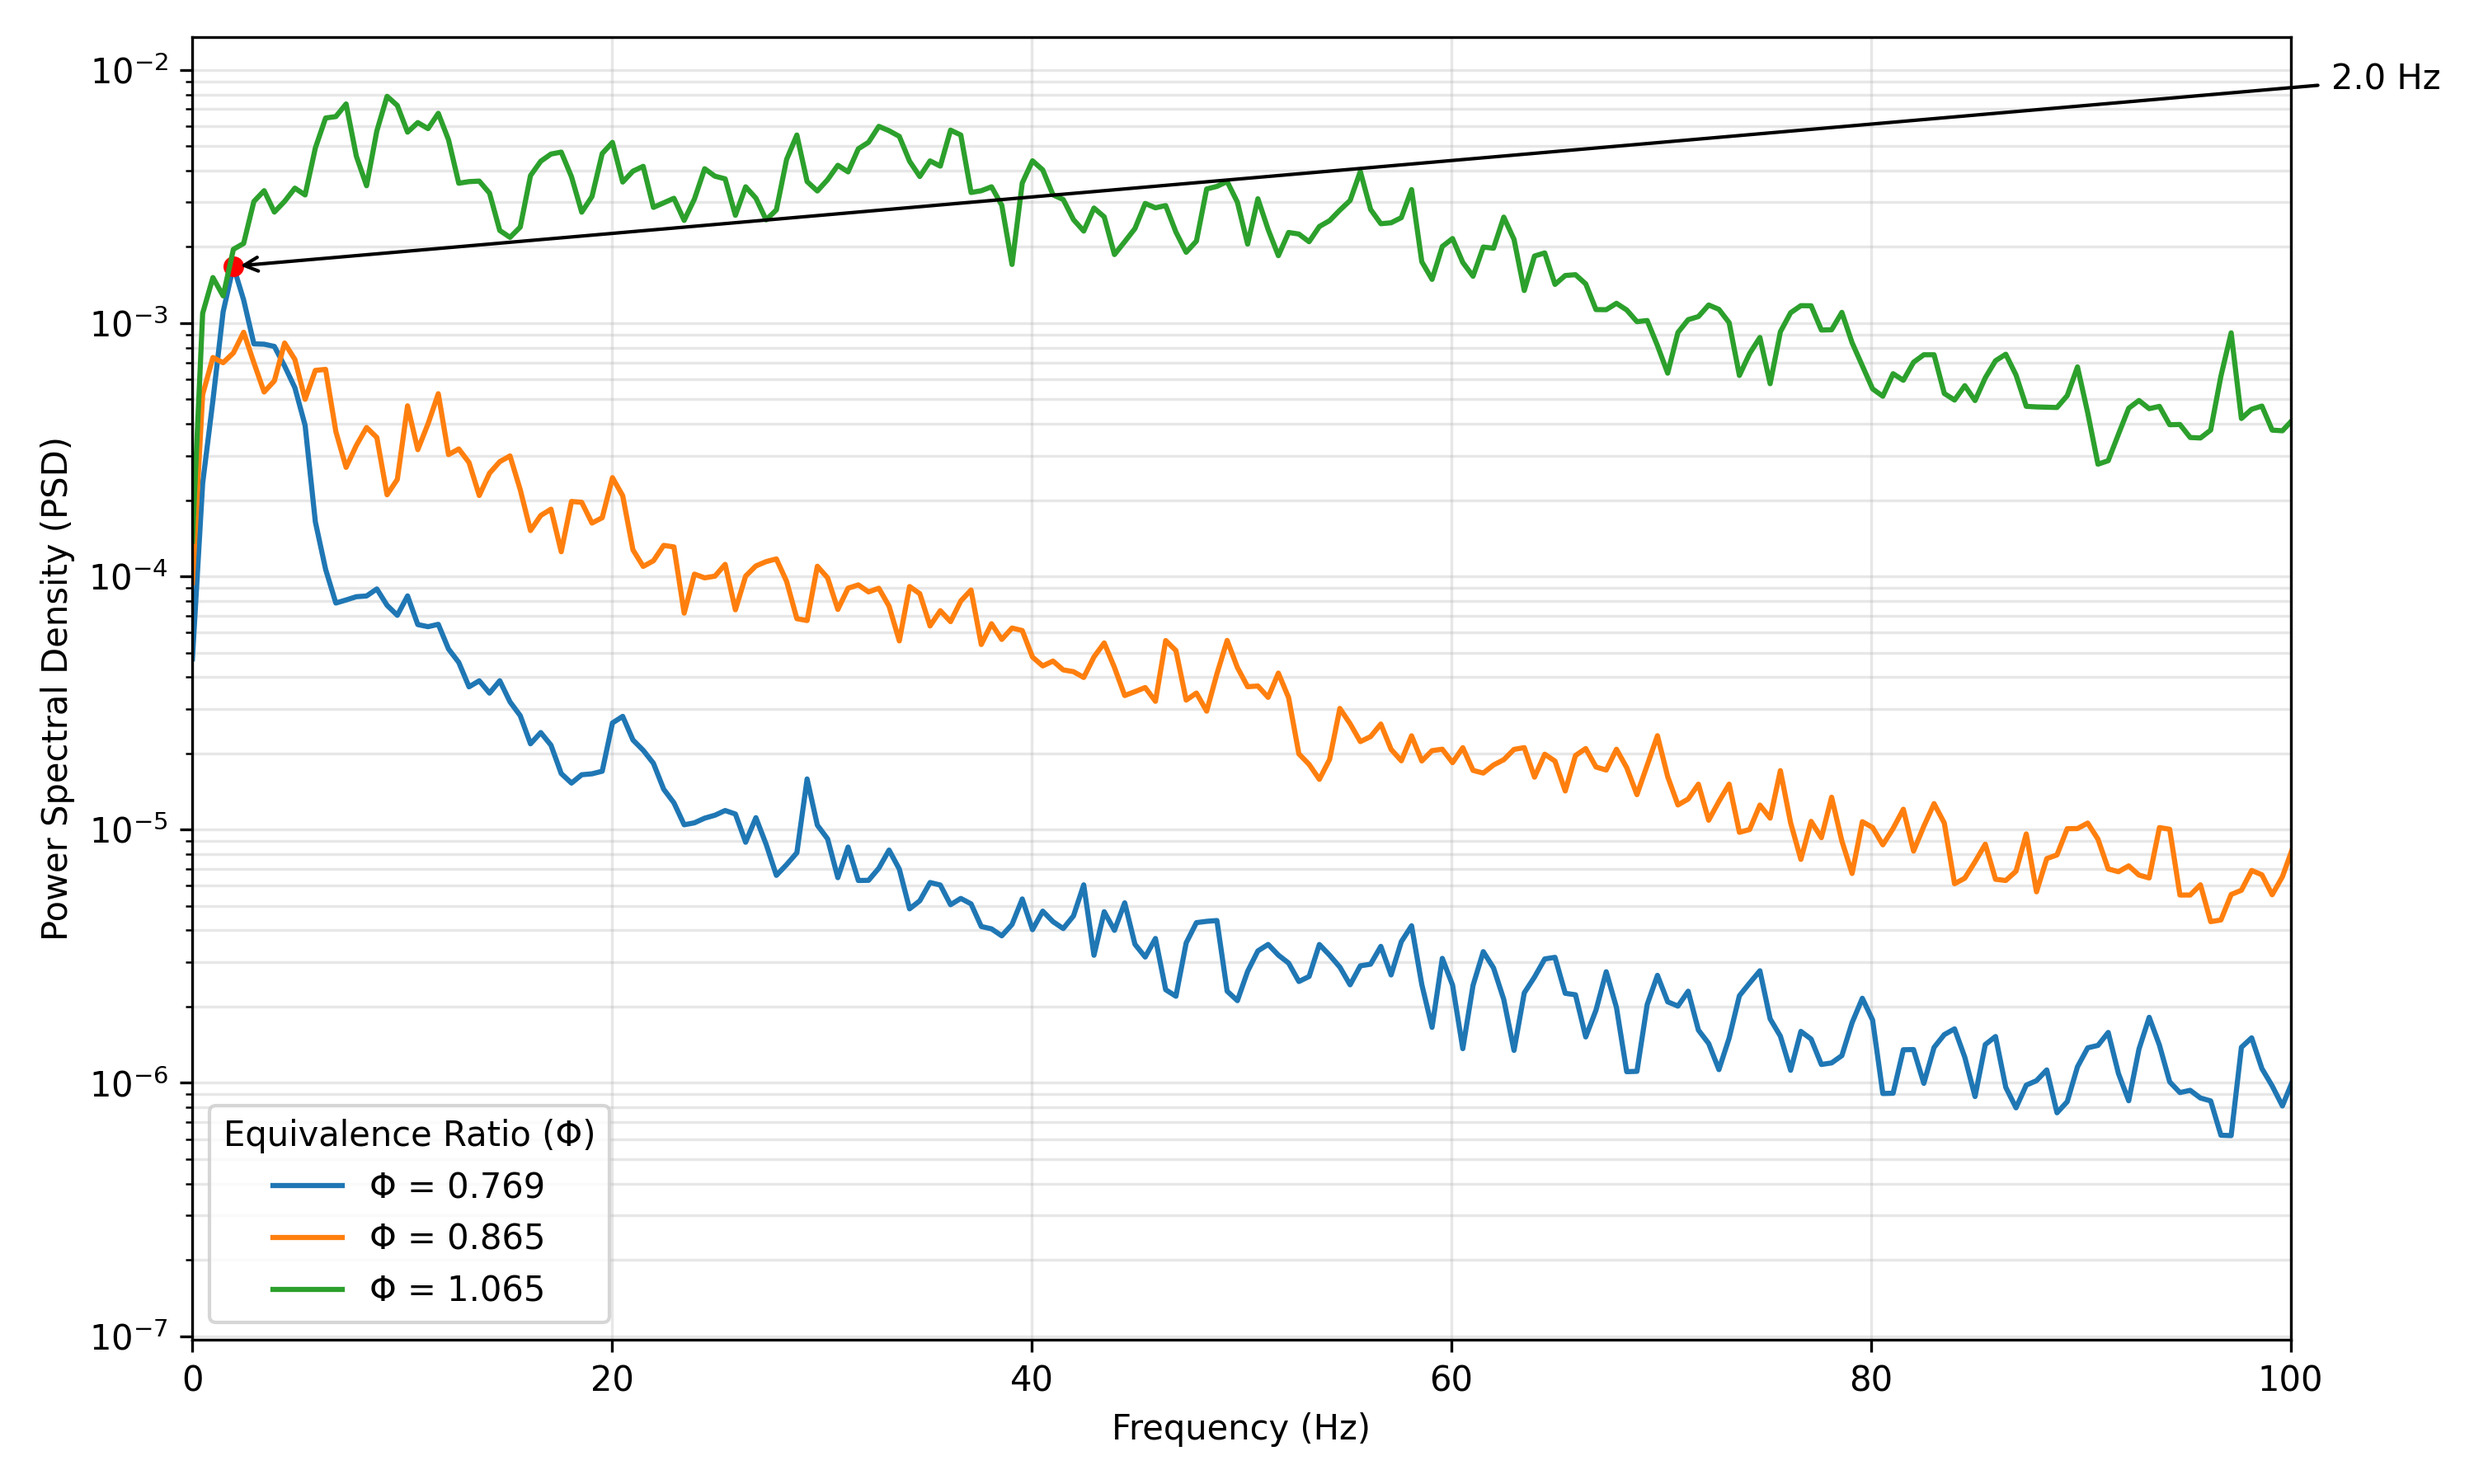
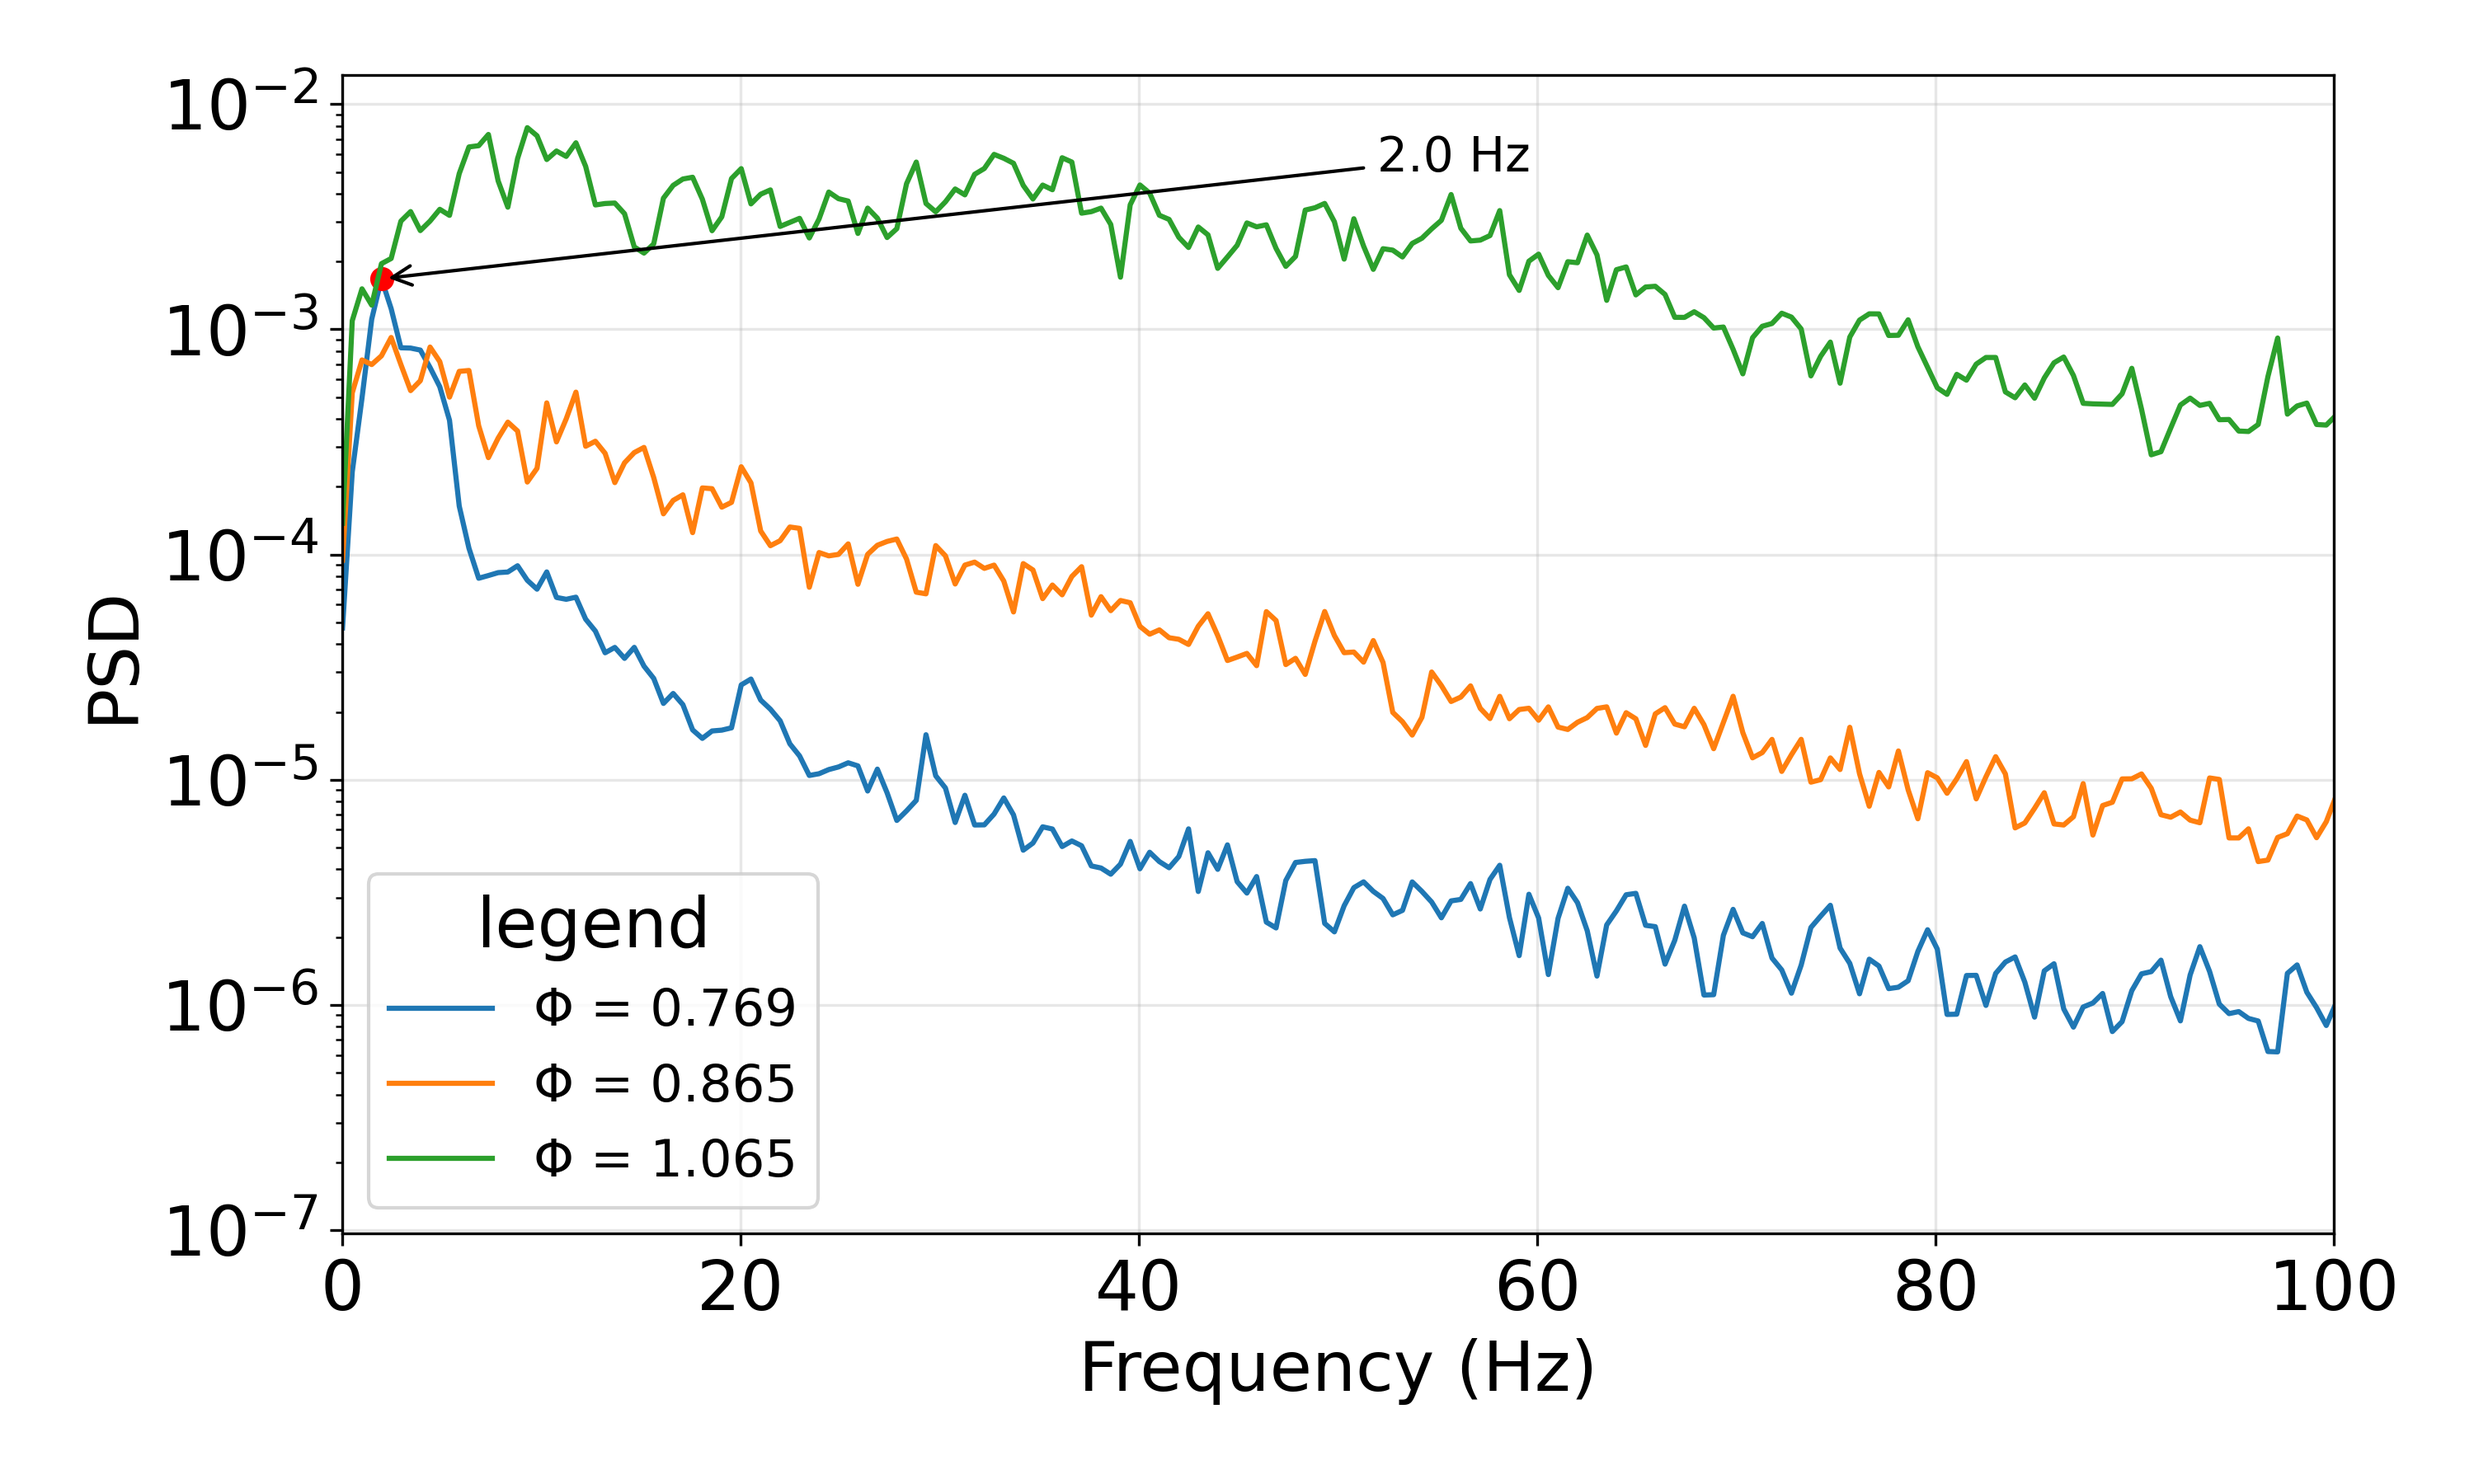
tweaked code, increased font

diff --git a/LBO/Autocorrelation_Graph_Figure_5.py b/LBO/Autocorrelation_Graph_Figure_5.py
@@ -1,10 +1,11 @@
 """
-this file is to simulate the 5th figure (corrected)
-the graph describes autocorrelation decay nearing LBO
+Autocorrelation plot for LBO (corrected)
 
-updated based on prof feedback:
-we now use a short segment instead of full signal
-to capture local behaviour properly
+Fixes applied:
+- Proper normalization so r(0) = 1
+- No smoothing that distorts zero-lag value
+- Uses short segment for local behaviour
+- Clear and correct implementation
 """
 
 import pandas as pd
@@ -12,7 +13,15 @@ import matplotlib.pyplot as plt
 import numpy as np
 import os
 
-folder_path = "LBO" 
+plt.rcParams.update({
+    "font.size": 22,
+    "axes.labelsize": 22,
+    "xtick.labelsize": 22,
+    "ytick.labelsize": 22,
+    "legend.fontsize": 22
+})
+
+folder_path = "LBO"
 main_file = os.path.join(folder_path, "Data details.xlsx")
 df_details = pd.read_excel(main_file)
 
@@ -27,42 +36,44 @@ for idx in plot_indices:
 
     air_val = row['Air (SLPM)']
     phi_val = row['Equivalence ratio']
-    
+
     file_name = os.path.join(folder_path, f"{int(air_val)}.xlsx")
     df_signal = pd.read_excel(file_name, header=None, names=['Time', 'Amplitude'])
 
     # sampling frequency
-    fs = 1 / (df_signal['Time'].iloc[1] - df_signal['Time'].iloc[0])
+    dt = df_signal['Time'].iloc[1] - df_signal['Time'].iloc[0]
+    fs = 1 / dt
 
     # remove mean
-    signal = (df_signal['Amplitude'] - df_signal['Amplitude'].mean()).to_numpy()
+    signal = df_signal['Amplitude'].to_numpy()
+    signal = signal - np.mean(signal)
 
-    # 🔥 KEY FIX: use only first 2 seconds
-    signal = signal[:int(2 * fs)]
+    # use only first 2 seconds
+    N = int(2 * fs)
+    signal = signal[:N]
 
-    # autocorrelation
+    # compute autocorrelation (normalized)
     corr = np.correlate(signal, signal, mode='full')
-    center = corr.size // 2
+    center = len(corr) // 2
 
-    # 🔥 KEY FIX: shorter lag window (30 ms)
+    # normalize → ensures r(0) = 1
+    corr = corr / corr[center]
+
+    # lag window (30 ms)
     max_lag = int(0.03 * fs)
-
-    rxx = corr[center:center + max_lag] / corr[center]
-
-    # optional smoothing (kept very light)
-    rxx = np.convolve(rxx, np.ones(5)/5, mode='same')
+    rxx = corr[center:center + max_lag]
 
     lag_time_ms = (np.arange(max_lag) / fs) * 1000
 
     plt.plot(lag_time_ms, rxx, label=f"Φ = {phi_val:.3f}")
 
-plt.xlabel("Lag Time (ms)")
-plt.ylabel("Autocorrelation Coefficient")
+plt.xlabel("Lag Time (ms)", fontsize=22)
+plt.ylabel("Autocorrelation Coefficient", fontsize=22)
 
 plt.axhline(0, color='black', linewidth=1, alpha=0.5)
 plt.grid(True, alpha=0.3)
-plt.legend(title="Equivalence Ratio (Φ)")
+plt.legend(title="Equivalence Ratio (Φ)", fontsize=16, title_fontsize=16)
 
 plt.tight_layout()
-plt.savefig("Figure_5_LBO_Autocorrelation_FIXED.png", dpi=300)
+plt.savefig("Figure_5_LBO_Autocorrelation_FIXED_again.png", dpi=300)
 plt.show()

diff --git a/LBO/cumulative_energy_figure_4.py b/LBO/cumulative_energy_figure_4.py
@@ -33,6 +33,14 @@ main_file = os.path.join(folder_path, "Data details.xlsx")
 air_name = "Air (SLPM)"
 phi_name = "Equivalence ratio"
 
+plt.rcParams.update({
+    "font.size": 22,
+    "axes.labelsize": 22,
+    "xtick.labelsize": 22,
+    "ytick.labelsize": 22,
+    "legend.fontsize": 22
+})
+
 # open the main data file
 df = pd.read_excel(main_file)
 
@@ -67,14 +75,14 @@ for idx in plot_indices:
     plt.plot(frequencies, cumulative_energy, label=f"Φ = {phi_value:.3f}", linewidth=1.5)
 
 # formatting for the paper
-plt.xlabel("Frequency (Hz)")
-plt.ylabel("ξ(Fi)")
+plt.xlabel("Frequency (Hz)", fontsize=22)
+plt.ylabel("ξ(Fi)", fontsize=22)
 
 # focus on the 0-200 Hz range to see the 'step' in energy
 plt.xlim(0, 200) 
 plt.ylim(0, 1.05)
 plt.grid(True, alpha=0.3)
-plt.legend(title="Equivalence Ratio (Φ)")
+plt.legend(title="Equivalence Ratio (Φ)", fontsize=22, title_fontsize=22)
 plt.tight_layout()
 
 # saving for git

diff --git a/LBO/frequency_spectrum_figure_2.py b/LBO/frequency_spectrum_figure_2.py
@@ -27,14 +27,14 @@ import numpy as np
 import os
 
 plt.rcParams.update({
-    "font.size": 16,
-    "axes.labelsize": 18,
-    "xtick.labelsize": 14,
-    "ytick.labelsize": 14,
-    "legend.fontsize": 14
+    "font.size": 20,
+    "axes.labelsize": 20,
+    "xtick.labelsize": 20,
+    "ytick.labelsize": 20,
+    "legend.fontsize": 15
 })
 
-folder_path = "."
+folder_path = os.path.dirname(__file__)
 main_file = os.path.join(folder_path, "Data details.xlsx")
 
 df = pd.read_excel(main_file)
@@ -77,7 +77,7 @@ plt.xlabel("Frequency (Hz)")
 plt.ylabel("PSD")
 plt.xlim(0, 100)
 plt.grid(True, alpha=0.3)
-plt.legend(title="Φ")
+plt.legend(title="legend")
 
 plt.tight_layout()
 plt.savefig("Figure_2_LBO_FrequencySpectrum.png", dpi=300)

diff --git a/LBO/Normalized_Cumulative_Distribution_figure_3.py b/LBO/Normalized_Cumulative_Distribution_figure_3.py
@@ -31,7 +31,7 @@ plt.rcParams.update({
     "ytick.labelsize": 14
 })
 
-folder_path = "."
+folder_path = os.path.dirname(__file__)
 main_file = os.path.join(folder_path, "Data details.xlsx")
 
 df = pd.read_excel(main_file)
@@ -56,7 +56,7 @@ plt.plot(df[x_axis_col], theta_values, marker='o', markersize=6, linewidth=2)
 
 plt.axhline(y=0.02, linestyle='--', linewidth=1.5)
 
-plt.xlabel("Φ / Φ_LBO", fontsize=18)
+plt.xlabel("Φ/Φlbo", fontsize=18)
 plt.ylabel("Θ", fontsize=18)
 
 plt.xticks(fontsize=14)

diff --git a/LBO/NRMS_vs_Normalized_Equivalence_Ratio_figure_7_1.py b/LBO/NRMS_vs_Normalized_Equivalence_Ratio_figure_7_1.py
@@ -60,10 +60,10 @@ plt.plot(df[x_axis_col], nrms_values, marker='s', color='tab:blue', label='Exper
 plt.axhline(y=0.145, linestyle='--', color='black')
 plt.axvline(x=1.115, linestyle='--', color='red',)
 
-plt.xlabel("Normalized Equivalence Ratio (Φ/Φ_lbo)")
+plt.xlabel("Normalized Equivalence Ratio (Φ/ΦLBO)")
 plt.ylabel('NRMS')
 
 plt.grid(True, alpha=0.3)
 
-plt.savefig("Figure_6_NRMS.png", dpi=300)
+plt.savefig("Figure_6_NRMS_revised.png", dpi=300)
 plt.show()

diff --git a/LBO/time_series_figure_1.py b/LBO/time_series_figure_1.py
@@ -29,11 +29,11 @@ import numpy as np
 import os
 
 plt.rcParams.update({
-    "font.size": 16,
-    "axes.labelsize": 18,
-    "axes.titlesize": 18,
-    "xtick.labelsize": 14,
-    "ytick.labelsize": 14
+    "font.size": 20,
+    "axes.labelsize": 20,
+    "axes.titlesize": 20,
+    "xtick.labelsize": 20,
+    "ytick.labelsize": 20
 })
 
 folder_path = "."

diff --git a/TAI/NRMS_TAI.py b/TAI/NRMS_TAI.py
@@ -13,7 +13,7 @@ import os
 # variables
 folder_path = "TAI"
 
-# mapping files to Reynolds number (same as your PSD code)
+# mapping files to Reynolds number 
 re_map = {
     15: 1565.85, 
     20: 2087.80, 
